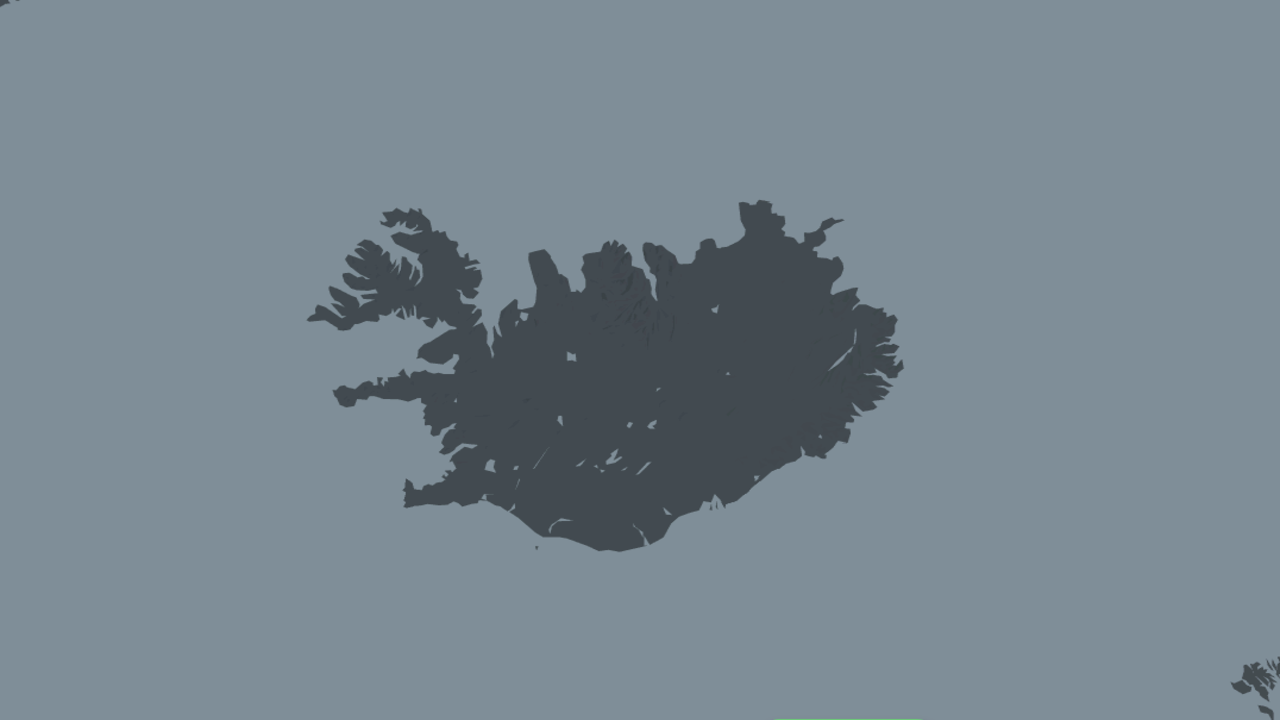
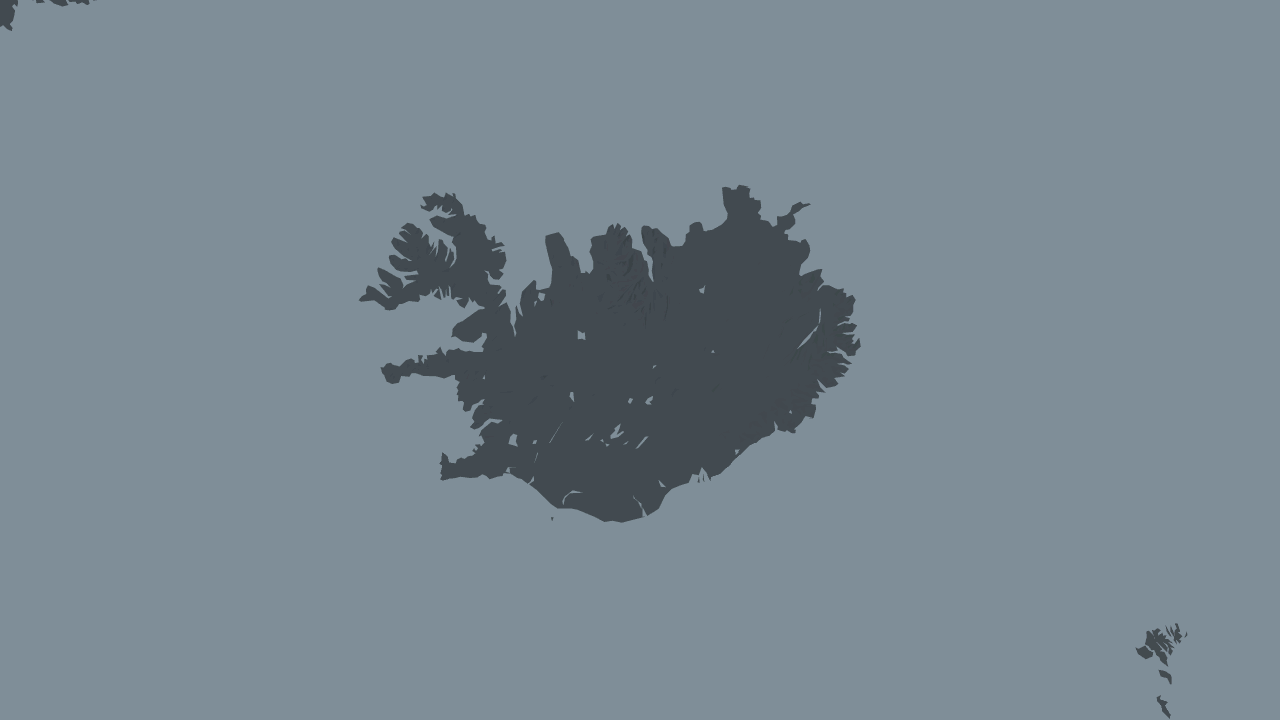
Increased accuracy of weather and mercator projection

diff --git a/source/LiveAPI.cpp b/source/LiveAPI.cpp
@@ -47,13 +47,13 @@ std::vector<sf::Texture> LiveAPI::getWeatherTextures(sf::RenderWindow *window) {
     for(const std::pair<float, float> &tile: tiles) {
         sf::Texture temp_texture;
 
-        std::string link = path + "/256/6/" + std::to_string(tile.first) + '/' +
+        std::string link = path + "/256/" + std::to_string(ResourcesManager::Instance().getRegionZoomLevel()) + "/" + std::to_string(tile.first) + '/' +
                                  std::to_string(tile.second) + "/2/1_0.png";
         request.setUri(link);
 
        // for(int i=0;link[i];i++) if(link[i]=='/') link[i]='_'; // mock
 
-       std::cout <<"http://tilecache.rainviewer.com"+ link <<'\n'; // mock
+       //std::cout <<"http://tilecache.rainviewer.com"+ link <<'\n'; // mock
 
         api_response = http.sendRequest(request);
 

diff --git a/source/Math.cpp b/source/Math.cpp
@@ -79,8 +79,8 @@ sf::Vector2f Math::MercatorProjection(float crtLatitude, float crtLongitude, con
     const float x_factor = map_width / (east - west);
     const float y_factor = map_height / (ymax - ymin);
 
-    const float x = (crtLongitude - west) * x_factor * 0.995f;
-    const float y = (ymax - std::log(std::tan(crtLatitude / 2 + PI / 4))) * y_factor * 0.995f;
+    const float x = (crtLongitude - west) * x_factor * 0.998f;
+    const float y = (ymax - std::log(std::tan(crtLatitude / 2 + PI / 4))) * y_factor * 0.999f;
 
     return {x,y};
 }

diff --git a/source/Weather.cpp b/source/Weather.cpp
@@ -29,6 +29,8 @@ void Weather::fetchWeatherImages(sf::RenderWindow *window) {
     for(int i = 0; i < (int) m_textures.size(); i++) {
         sf::Sprite temp_sprite;
         temp_sprite.setTexture(m_textures[i]);
+        sf::Color color = temp_sprite.getColor();
+        temp_sprite.setColor(sf::Color(color.r, color.g, color.b, 140));
 
         sf::FloatRect bounds = temp_sprite.getLocalBounds();
         temp_sprite.setOrigin(bounds.width / 2.f, bounds.height / 2.f);

diff --git a/header/ResourcesManager.h b/header/ResourcesManager.h
@@ -65,6 +65,7 @@ public:
     std::vector<std::string> getFacts() const;
     sf::SoundBuffer &getSound(const std::string &soundName);
     std::string getSelectedRegion() const;
+    int getRegionZoomLevel() const;
 
     void loadRegion(const std::string &region);
     void load();
@@ -92,6 +93,7 @@ private:
     std::vector<std::string> m_randomFacts{};
 
     std::string m_selectedRegion{};
+    int m_regionZoomLevel;
     bool m_usingMockApi{};
 };
 

diff --git a/source/ResourcesManager.cpp b/source/ResourcesManager.cpp
@@ -111,7 +111,13 @@ void ResourcesManager::loadLatLongBox(const std::string &region_name) {
         m_regionBox.push_back(coordinate);
     }
 
+    fin >> m_regionZoomLevel;
+
     fin.close();
+}
+
+int ResourcesManager::getRegionZoomLevel() const {
+    return m_regionZoomLevel;
 }
 
 void ResourcesManager::loadAirports(const std::string &region_name) {
